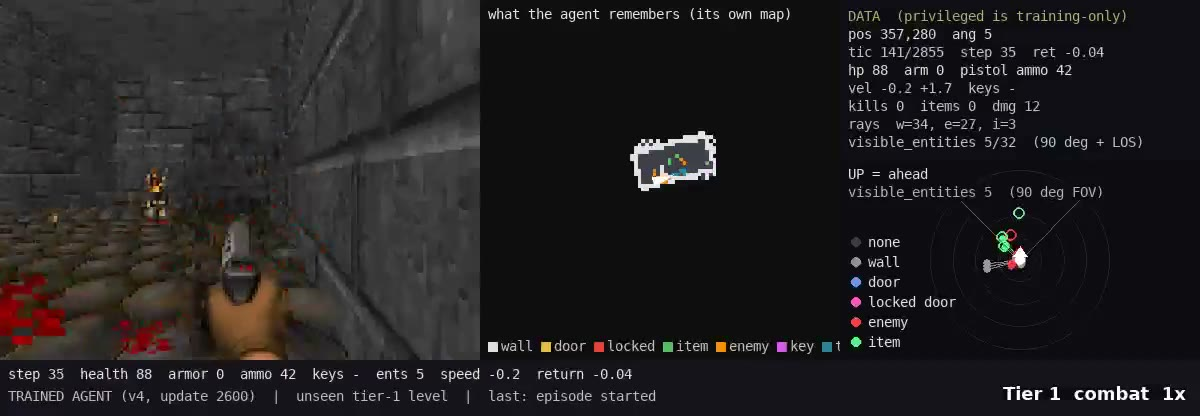
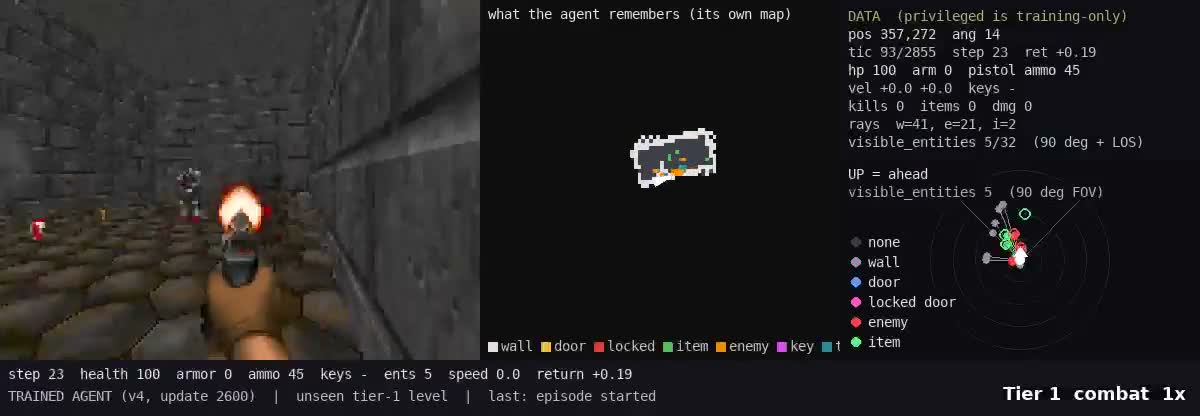
Trim the reel to combat, rooms and the red key, and land record_demo --agent.
Drop the empty-room open and the yellow-lock stall; the viewer Heramb added is how the capture was made.

diff --git a/training/record_demo.py b/training/record_demo.py
@@ -1,11 +1,12 @@
-"""Watch (or record to MP4) the privileged teacher bot playing generated levels, drawn with
-the watch_random viewer (RGB | 3D ray/sector view | data panel + radar).
+"""Watch (or record to MP4) generated levels with the watch_random viewer.
 
-    uv run python training/record_demo.py --live                      # window, plays by itself forever
-    uv run python training/record_demo.py --live --tier 3 --fps 18    # only tier-3 levels, faster
-    uv run python training/record_demo.py --tier 3 --seed 5 --out demo.mp4   # headless MP4
+    uv run python training/record_demo.py --live --agent submission/weights/policy.pt
+    uv run python training/record_demo.py --live                      # privileged teacher
+    uv run python training/record_demo.py --live --tier 3 --fps 18
+    uv run python training/record_demo.py --tier 3 --seed 5 --out demo.mp4
 
-The teacher sees the whole map (training-only scaffolding); it is NOT the submission agent.
+`--agent` plays the submitted DoomAgent and draws its own EgoMap in the middle panel.
+Without it, the privileged teacher drives (training-only; it sees the whole map).
 """
 from __future__ import annotations
 

diff --git a/README.md b/README.md
@@ -6,7 +6,7 @@ Weights and code live in this repo. Evaluation uses the official `doom_env` wrap
 
 ![Trained agent, tier 1 combat](docs/demo/poster.jpg)
 
-**Demo (89s highlights):** [docs/demo/showcase.mp4](docs/demo/showcase.mp4) — [clip list](docs/demo/README.md)
+**Demo (48s highlights):** [docs/demo/showcase.mp4](docs/demo/showcase.mp4) — [clip list](docs/demo/README.md)
 
 Left: RGB. Centre: the agent’s own EgoMap. Right: rays / entities / vitals. Label in the recording: `TRAINED AGENT (v4, update 2600)` on **unseen** generated tiers.
 
@@ -37,13 +37,15 @@ The policy is a real trained net, not the random baseline. It is **not** a full 
 git lfs install
 uv sync
 uv run python validate.py
-# held-out generated maps (the submitted weights)
+# watch the trained agent (RGB | EgoMap | rays)
+uv run python training/record_demo.py --live --agent submission/weights/policy.pt --label "(v4, update 2600)"
+# held-out generated maps
 uv run python training/evaluate.py --policy agent --episodes 5
 # play yourself (WASD + mouse; R = new map)
 uv run python training/watch_random.py --policy human --pool
 ```
 
-`DoomAgent` loads `submission/weights/policy.pt`. Set `DOOM_AGENT_GREEDY=1` for deterministic eval. The 89s reel is a live viewer run of that policy, not a human.
+`DoomAgent` loads `submission/weights/policy.pt`. Set `DOOM_AGENT_GREEDY=1` for deterministic eval. The 48s reel is combat → rooms → red key, not empty-room bootstrap or the yellow-lock stall.
 
 ## Train
 

diff --git a/docs/demo/README.md b/docs/demo/README.md
@@ -1,15 +1,13 @@
 # Agent demo (update 2600, unseen generated maps)
 
-Phone capture of the trained policy (`TRAINED AGENT v4, update 2600`) in the local viewer: RGB, EgoMap, rays.
+Phone capture of the trained policy (`TRAINED AGENT v4, update 2600`) in `record_demo.py --agent`: RGB, EgoMap, rays.
 
-**Showcase reel:** [showcase.mp4](showcase.mp4) (89s, cuts only)
+**Showcase reel:** [showcase.mp4](showcase.mp4) (48s)
 
 | Clip | What it shows |
 | --- | --- |
-| [01_t0_exit.mp4](01_t0_exit.mp4) | Tier 0 empty rooms — finds the exit in ~27 steps |
-| [02_t1_combat.mp4](02_t1_combat.mp4) | Tier 1 — aims and shoots; EgoMap marks enemies |
-| [03_t2_rooms.mp4](03_t2_rooms.mp4) | Tier 2 multi-room corridor fight |
-| [04_t3_key.mp4](04_t3_key.mp4) | Tier 3 — red keycard on vitals, map grows as it explores |
-| [05_t4_lock.mp4](05_t4_lock.mp4) | Tier 4 — red skull held; still blocked by a yellow locked door |
+| [01_t1_combat.mp4](01_t1_combat.mp4) | Tier 1 — aims and shoots; EgoMap marks enemies |
+| [02_t2_rooms.mp4](02_t2_rooms.mp4) | Tier 2 multi-room corridor fight |
+| [03_t3_key.mp4](03_t3_key.mp4) | Tier 3 — red keycard on vitals, map grows as it explores |
 
-Dropped from the raw 3:02 WhatsApp recording: deaths, 1 HP stagger, staring at walls after a 29-step lucky exit, and long 2×-speed wander.
+Dropped from the reel: the opening empty-room exit, the yellow locked-door stall, deaths, wall-staring, and long 2× wander.
